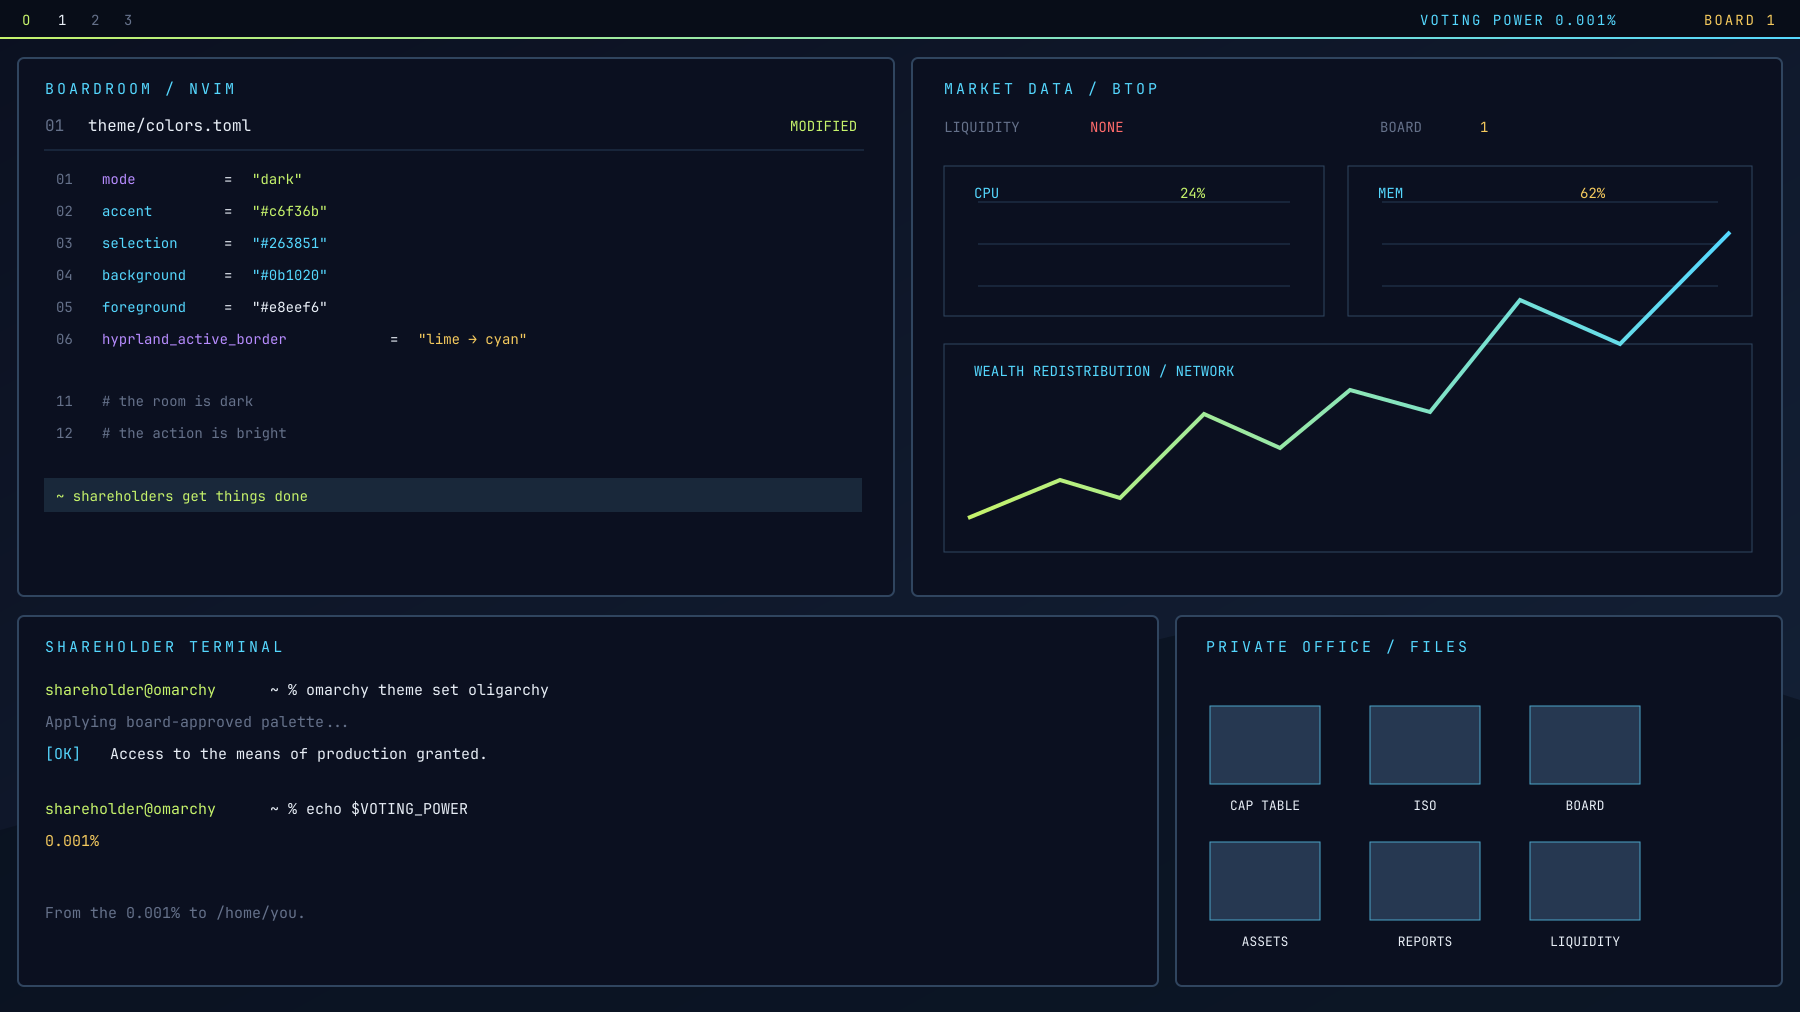
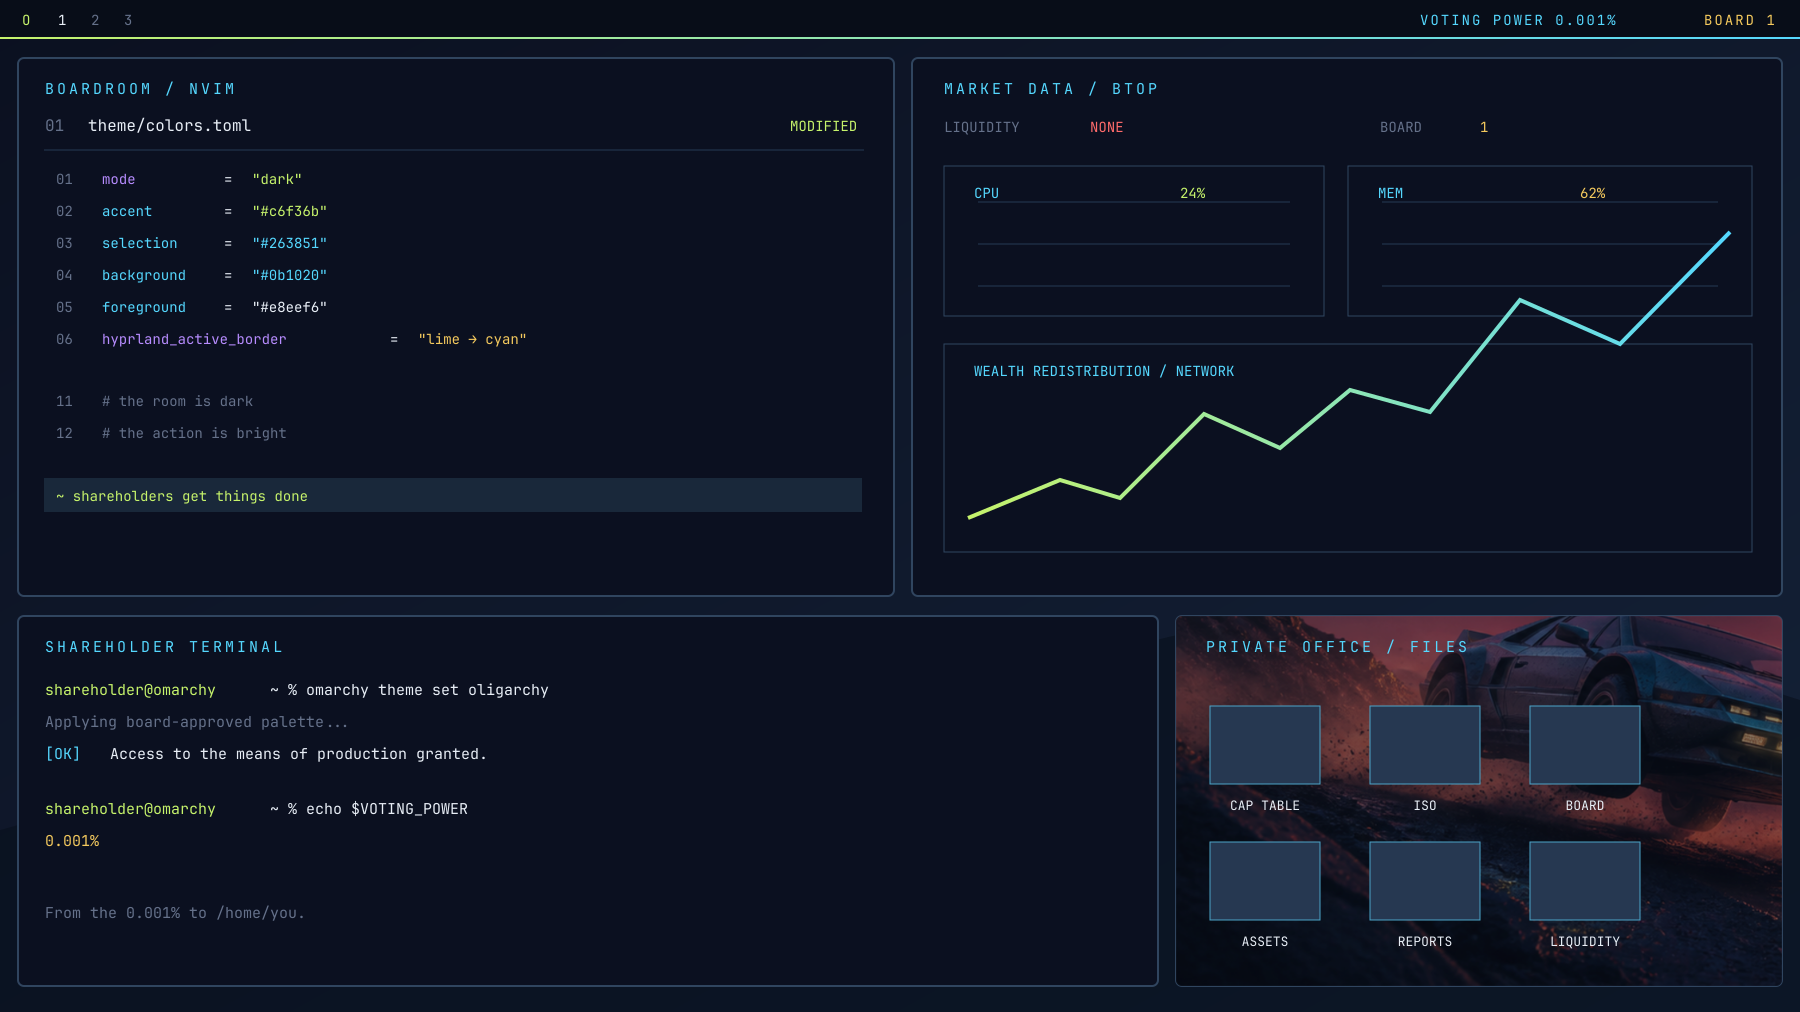
feat: show hero wallpaper in theme preview

diff --git a/README.md b/README.md
@@ -36,7 +36,7 @@ This repository includes the shared palette plus explicit styling for Hyprland b
 
 ## Development
 
-The vector source for the unlock art and previews lives in `art/source/`. The four wallpapers are final raster assets in `backgrounds/`; rebuild the vector assets with:
+The source assets for the unlock art and preview composition live in `art/source/`. The four wallpapers are final raster assets in `backgrounds/`; rebuild the generated assets with:
 
 ```bash
 ./scripts/render-assets.sh
